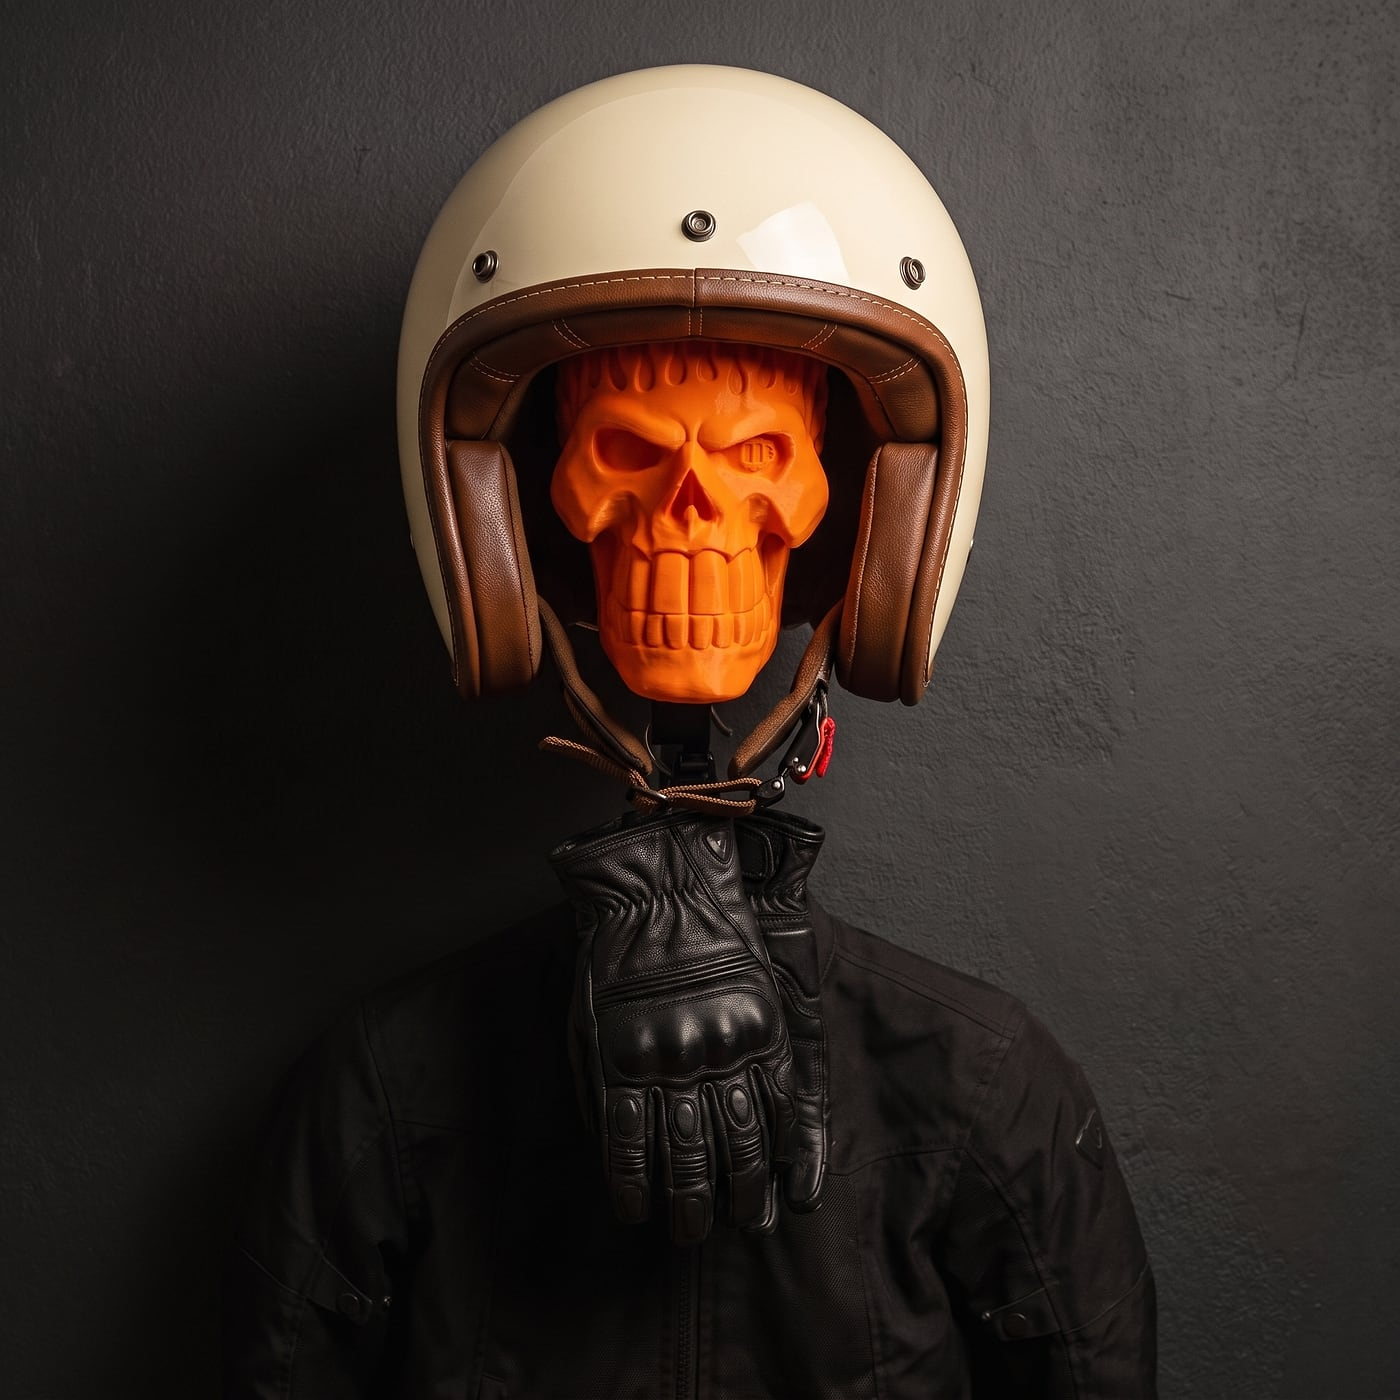
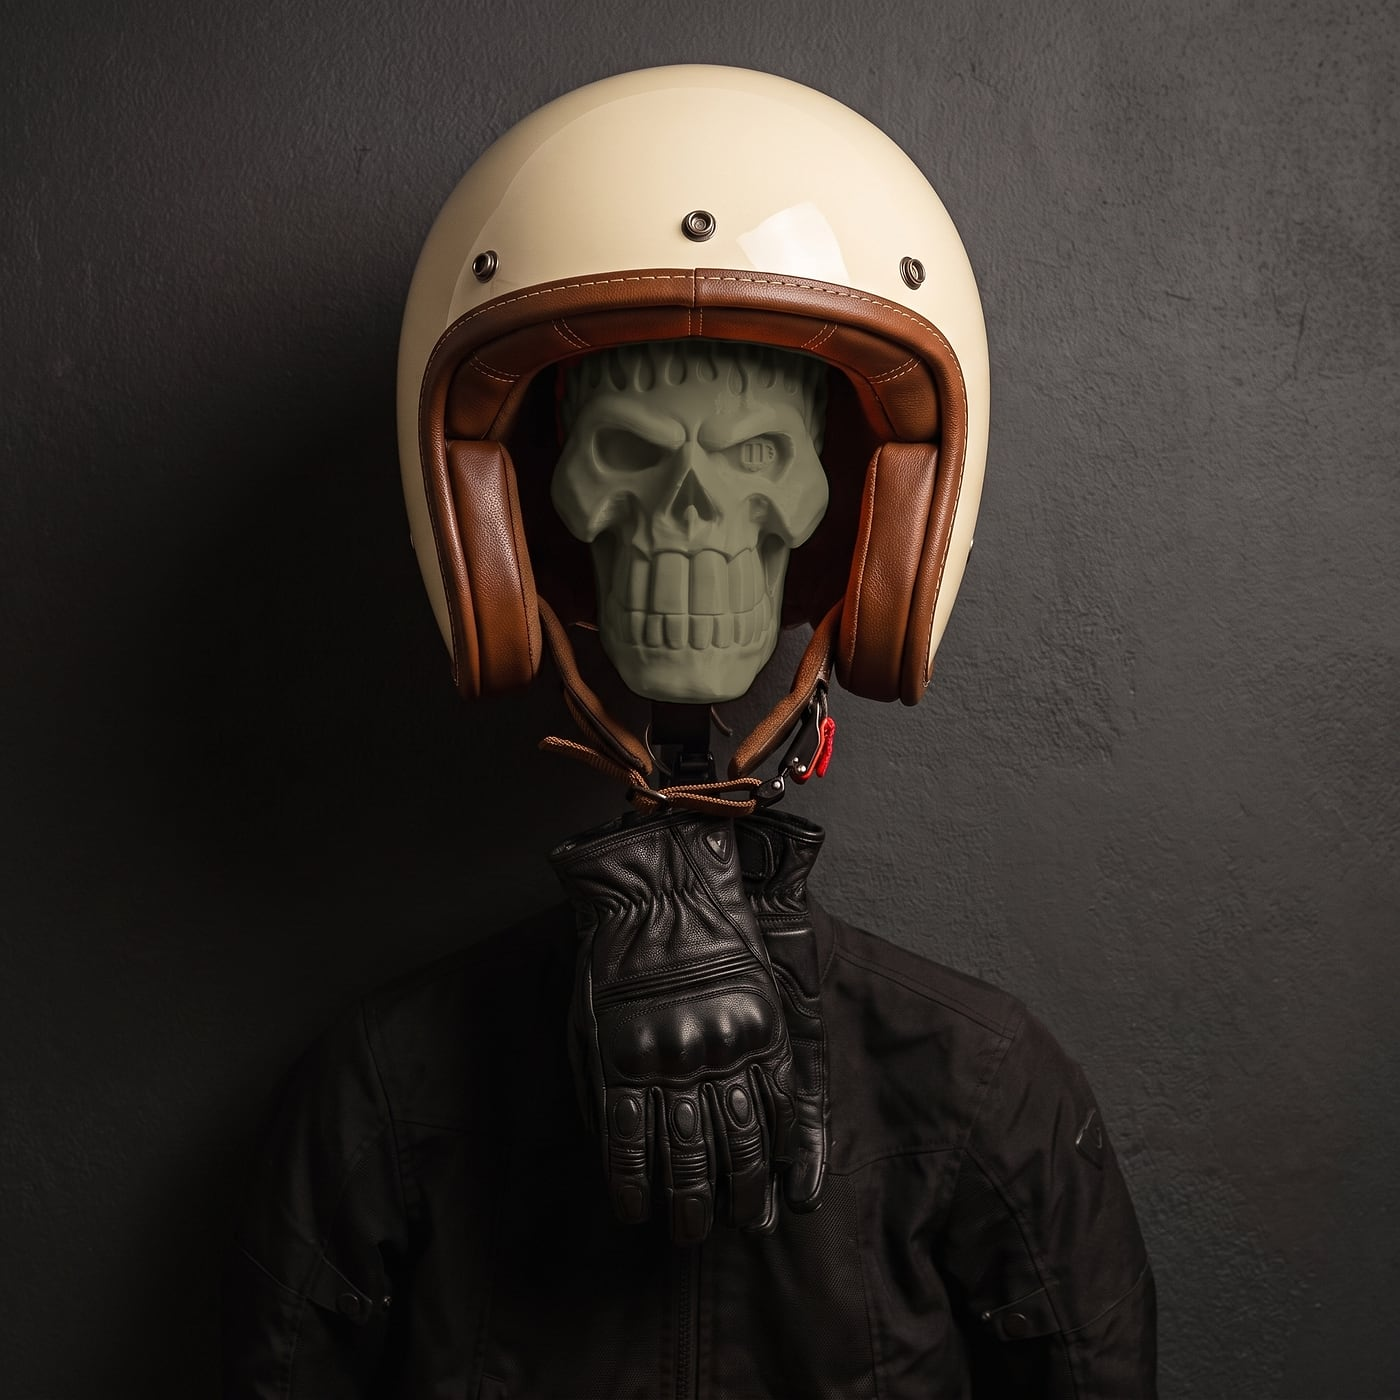
design: the Rider wall shows all three colourways
Every skull on it was orange. The cream-helmet skull is now Militia Olive
and the dark-door one Ghost Grey, recoloured in build-rider-wall.mjs: the
orange print found by colour (very saturated, almost no blue, unlike the
brown leather beside it), and given the real print's colour and share of
the orange's brightness, measured off colourway-lineup.jpg. Light and shade
come through luminance. Neither tile was ever deployed, so they keep their
names.

Changed region(s): [[0.3686, 0.215, 0.6143, 0.5221]]

diff --git a/components/marketing/rider-wall.tsx b/components/marketing/rider-wall.tsx
@@ -6,15 +6,15 @@ import { siteConfig } from "@/config/site"
 
 /**
  * Our own pictures for now - of the mount in use, one reworked by an image
- * model so the wall is not the same helmet every time
- * (scripts/build-rider-wall.mjs) - and the alt text says so rather than
- * passing them off as customers' walls. Riders' shots go here once people tag
- * us and agree to be featured.
+ * model so the wall is not the same helmet every time, and two skulls
+ * recoloured so it shows all three colourways (scripts/build-rider-wall.mjs).
+ * The alt text says they are ours rather than passing them off as customers'
+ * walls. Riders' shots go here once people tag us and agree to be featured.
  */
 const SHOTS = [
   {
     src: "/product/rider-cream-helmet.jpg",
-    alt: "Our mount wearing a cream open-face helmet with brown leather trim, gloves and a riding jacket hanging below",
+    alt: "Our mount in Militia Olive wearing a cream open-face helmet with brown leather trim, gloves and a riding jacket hanging below",
   },
   {
     src: "/product/rider-bare-skull.jpg",
@@ -26,7 +26,7 @@ const SHOTS = [
   },
   {
     src: "/product/rider-dark-door.jpg",
-    alt: "A helmet on the mount against a dark door, the skull filling the visor",
+    alt: "A helmet on the mount against a dark door, the Ghost Grey skull filling the visor",
   },
 ]
 
